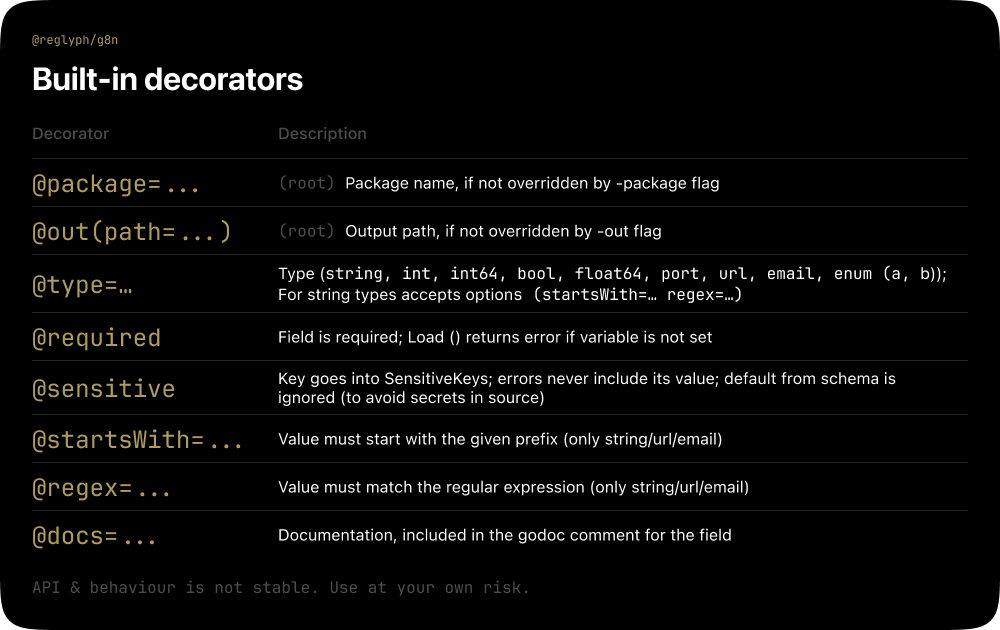
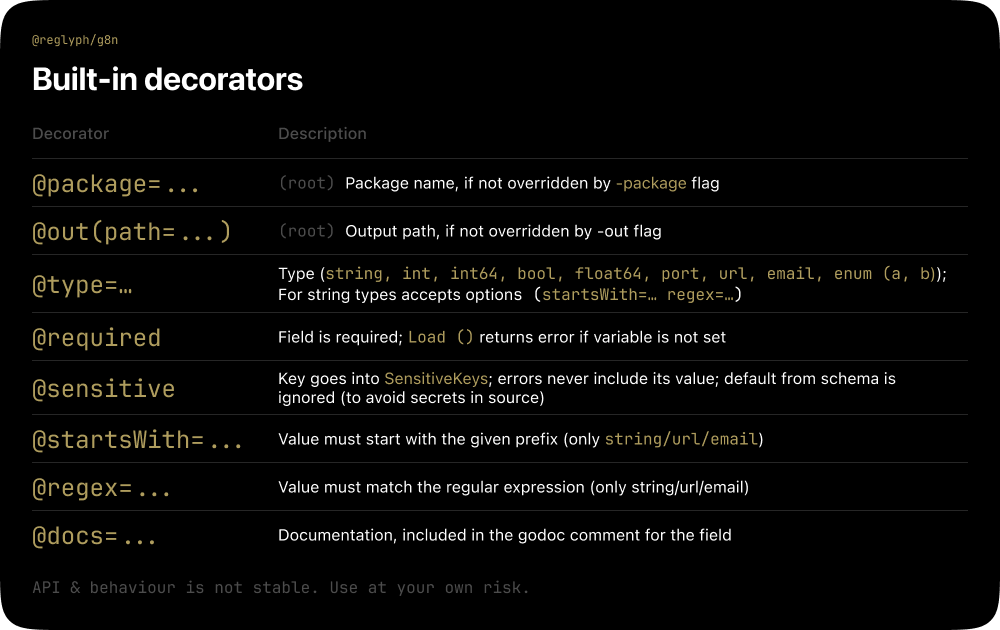
docs: update README;

diff --git a/README.md b/README.md
@@ -23,6 +23,10 @@ validation, and metadata.
 ## Installation
 
 ```bash
+# with Homebrew
+brew install reglyph/tap/g8n
+
+# or directly from source
 go install github.com/reglyph/g8n/cmd/g8n@latest
 ```
 
@@ -74,9 +78,12 @@ LOG_LEVEL=
 # With flags
 g8n -schema example.env.schema -out internal/config/env.go
 
-# OR just
+# OR just g8n (uses the @out decorator from the schema)
 g8n
 ```
+
+![usage.png](assets/usage.png)
+![overlays.png](assets/overlays.png)
 
 ### 3. Usage in application code
 
@@ -101,12 +108,6 @@ func main() {
 }
 ```
 
----
-
-![usage.png](assets/usage.png)
-
----
-
 ## Validators & expansion
 
 ```envschema
@@ -128,8 +129,8 @@ KEY=${DOES_NOT_EXIST}
 Expansion rules:
 
 - String‑typed values (`string`, `url`, `email`, `enum`) are expanded – both from environment and defaults. Numeric and
-  boolean types are not expanded: ${...} in their default is a schema‑parsing error.
-- `@sensitive` fields and fields with `@regex `are not expanded (the regex is applied to the raw value).
+  boolean types are not expanded: `${...}` in their default is a schema‑parsing error.
+- `@sensitive` fields and fields with `@regex` are not expanded (the regex is applied to the raw value).
 - A default containing `${...}` bypasses static checks; the final value is validated at `Load()` after substitution. For
   `url`/`email`/`enum`, an invalid (including unresolved) result is a `Load()` error; for string, any string is valid,
   so an unresolved reference remains as is.
@@ -141,17 +142,24 @@ Static checks during generation:
 - Numeric and boolean defaults are canonicalised to valid Go literals (`08` → `8`, `TRUE` → `true`).
 - Two variables that map to the same Go field name (`DB_HOST` and `db_host` → `DbHost`) cause a generation error.
 
-## Multi-file overlays
+## Field naming
 
-Overlay file names are fixed and independent of the base schema name:
+Env keys are converted to Go identifiers with `naming.GoFieldName`: non‑alphanumeric characters split words, every word
+is capitalised (`APP_ENV` → `AppEnv`, `FEATURE_V_2` → `FeatureV2`). Decorative prefixes are not stripped. When the
+package name is derived from the output directory it is sanitised, prefixed with `env_` if it starts with a digit, and
+a directory that would yield a Go keyword is rejected.
 
-| Order | File         | When applied               |
-|-------|--------------|----------------------------|
-| 1     | `.env.local` | always, if the file exists |
-| 2     | `.env.<env>` | if `-env <env>` is given   |
+## JSON Schema
 
-Overlays add new variables and completely replace the declaration of a variable with the same key (you must repeat its
-decorators if needed). Root decorators are taken only from the base schema. Missing overlay files are not an error.
+With `-json <path>`, `g8n` emits a JSON Schema draft-07 document instead of Go code:
+
+```bash
+g8n -schema example.env.schema -json internal/config/env.schema.json
+```
+
+The document declares an `object` with one property per variable: `type`, optional `description` (from `@docs`),
+`default`, `enum` (from `@type=enum(...)`), `format` (`uri` for `url`, `email` for `email`), `pattern` (from `@regex`)
+and numeric `minimum`/`maximum` bounds (for `port`). Variables marked `@required` are listed in `required`.
 
 ## License
 
